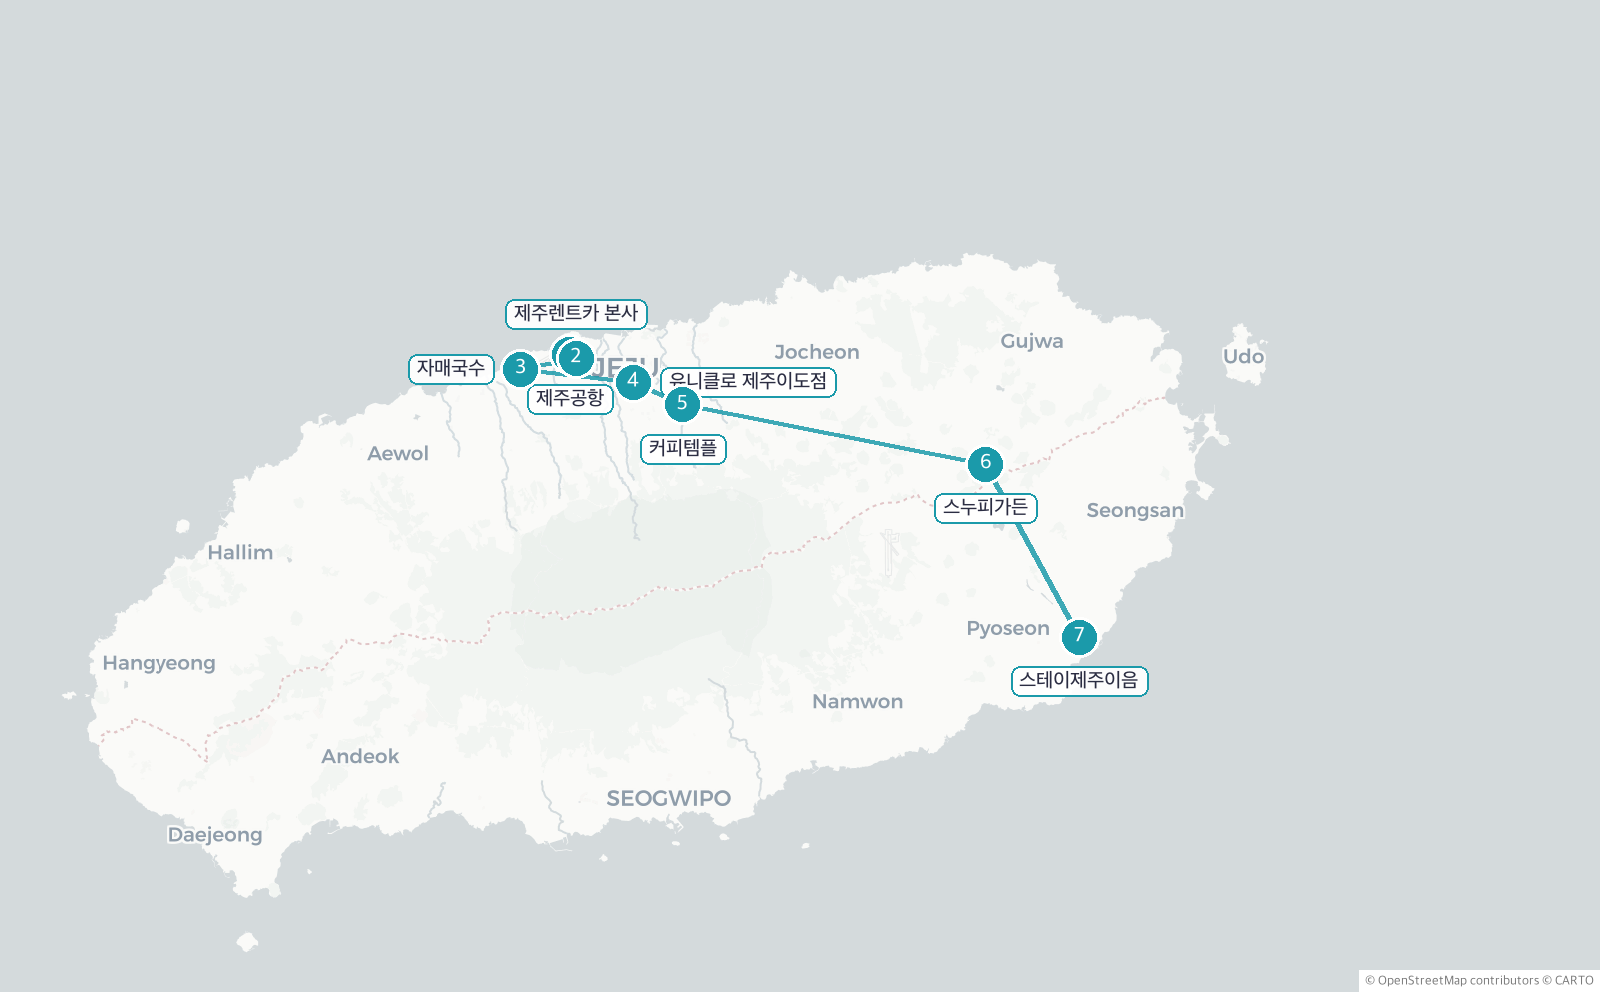
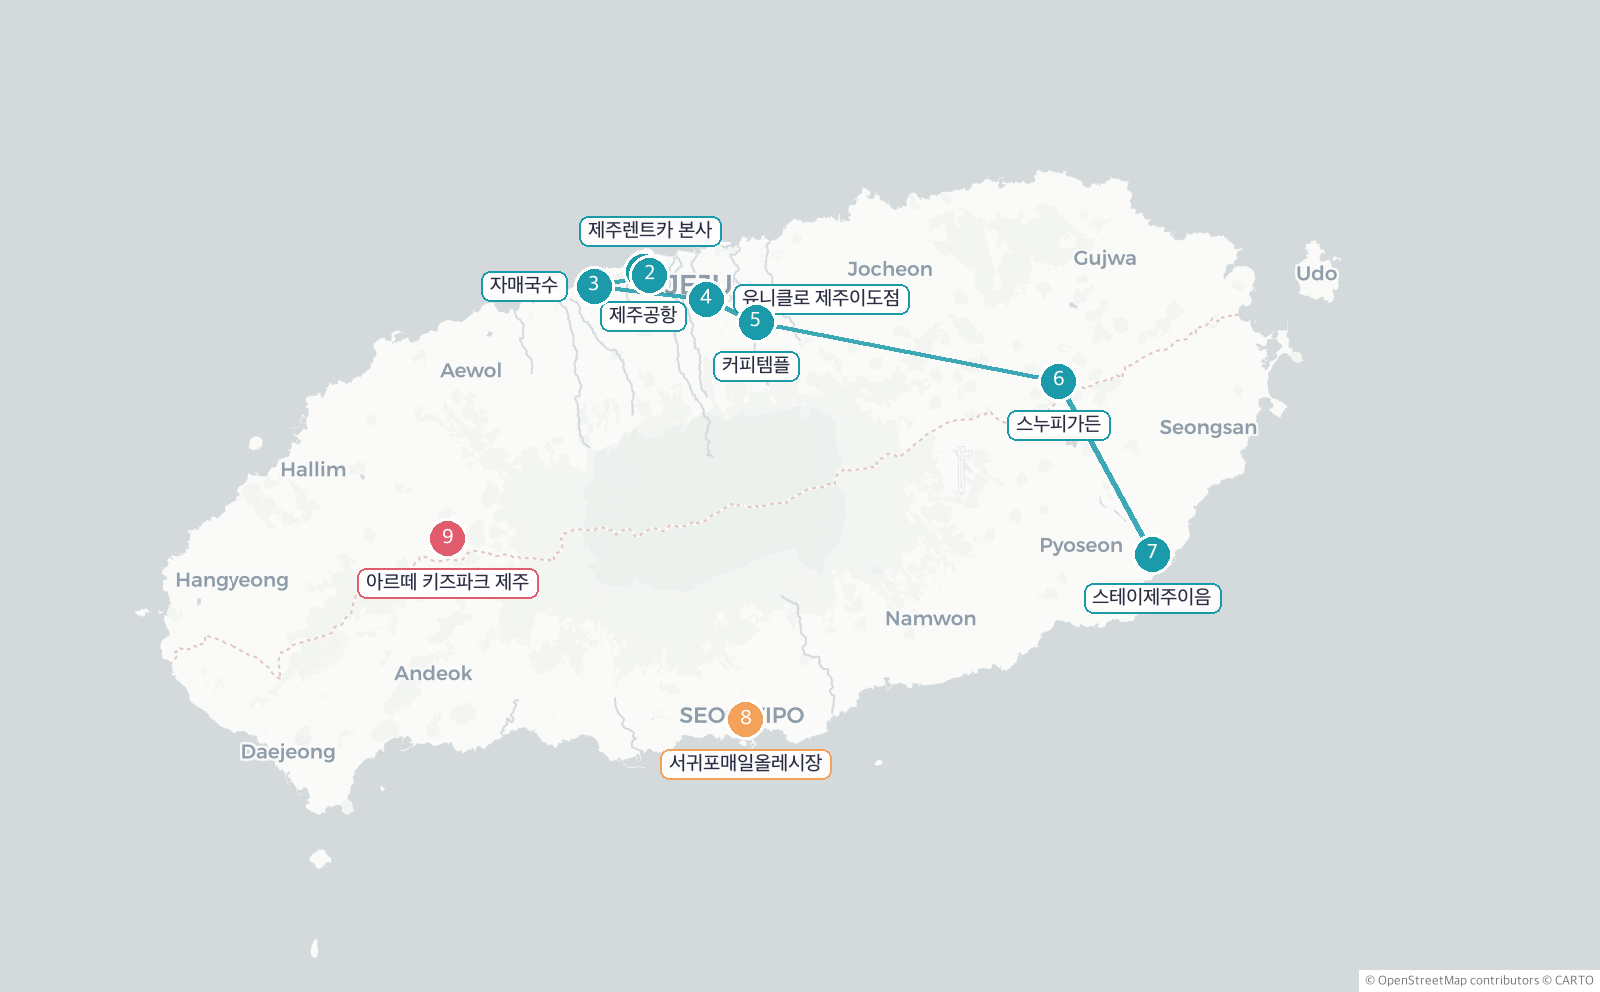
계획표 갱신 2026-07-30 09:08

diff --git a/489c57cd83/index.html b/489c57cd83/index.html
@@ -144,10 +144,10 @@
     <div id="zones" class="zones"></div>
     <div id="map" style="width:100%; height:340px; border-radius:14px; z-index:0"></div>
     <div id="chips" class="chips"></div>
-    <div class="drive">🚗 1→2 <b>7분</b> · 2→3 <b>12분</b> · 3→4 <b>26분</b> · 4→5 <b>12분</b> · 5→6 <b>31분</b> · 6→7 <b>27분</b> <span class='tot'>(총 1시간 55분)</span></div>
+    <div class="drive">🚗 1→2 <b>7분</b> · 2→3 <b>12분</b> · 3→4 <b>24분</b> · 4→5 <b>12분</b> · 5→6 <b>31분</b> · 6→7 <b>27분</b> · 7→8 <b>50분</b> · 7→9 <b>81분</b> <span class='tot'>(총 4시간 4분)</span></div>
     <script>
     (function(){
-      var pts = [{"n": 1, "name": "제주공항", "lat": 33.5068398, "lon": 126.492723, "day": 1, "time": "09:00", "addr": "제주특별자치도 제주시 공항로 2", "phone": "1661-2626", "url": "http://place.map.kakao.com/10808261"}, {"n": 2, "name": "제주렌트카 본사", "lat": 33.5049944, "lon": 126.4971834, "day": 1, "time": "10:00", "addr": "제주특별자치도 제주시 용문로 8", "phone": "1588-3301", "url": "http://place.map.kakao.com/26887342"}, {"n": 3, "name": "자매국수", "lat": 33.498579, "lon": 126.4591426, "day": 1, "time": "11:00", "addr": "제주특별자치도 제주시 항골남길 46", "phone": "064-746-2222", "url": "http://place.map.kakao.com/21455793"}, {"n": 4, "name": "유니클로 제주이도점", "lat": 33.4912167, "lon": 126.5362246, "day": 1, "time": "12:30", "addr": "제주특별자치도 제주시 구남로8길 1", "phone": "064-759-8756", "url": "http://place.map.kakao.com/1969411749"}, {"n": 5, "name": "커피템플", "lat": 33.4781648, "lon": 126.5702468, "day": 1, "time": "13:45", "addr": "제주특별자치도 제주시 영평길 269", "phone": "070-8806-8051", "url": "http://place.map.kakao.com/99092488"}, {"n": 6, "name": "스누피가든", "lat": 33.4441313, "lon": 126.7781669, "day": 1, "time": "15:20", "addr": "제주특별자치도 제주시 구좌읍 금백조로 930", "phone": "064-805-1118", "url": "http://place.map.kakao.com/852041742"}, {"n": 7, "name": "스테이제주이음", "lat": 33.3451558, "lon": 126.8423186, "day": 1, "time": "18:00", "addr": "제주특별자치도 서귀포시 표선면 하천로 37", "phone": "0507-1484-1511", "url": "http://place.map.kakao.com/833379597"}];
+      var pts = [{"n": 1, "name": "제주공항", "lat": 33.5068398, "lon": 126.492723, "day": 1, "time": "09:00", "addr": "제주특별자치도 제주시 공항로 2", "phone": "1661-2626", "url": "http://place.map.kakao.com/10808261"}, {"n": 2, "name": "제주렌트카 본사", "lat": 33.5049944, "lon": 126.4971834, "day": 1, "time": "10:00", "addr": "제주특별자치도 제주시 용문로 8", "phone": "1588-3301", "url": "http://place.map.kakao.com/26887342"}, {"n": 3, "name": "자매국수", "lat": 33.498579, "lon": 126.4591426, "day": 1, "time": "11:00", "addr": "제주특별자치도 제주시 항골남길 46", "phone": "064-746-2222", "url": "http://place.map.kakao.com/21455793"}, {"n": 4, "name": "유니클로 제주이도점", "lat": 33.4912167, "lon": 126.5362246, "day": 1, "time": "12:30", "addr": "제주특별자치도 제주시 구남로8길 1", "phone": "064-759-8756", "url": "http://place.map.kakao.com/1969411749"}, {"n": 5, "name": "커피템플", "lat": 33.4781648, "lon": 126.5702468, "day": 1, "time": "13:45", "addr": "제주특별자치도 제주시 영평길 269", "phone": "070-8806-8051", "url": "http://place.map.kakao.com/99092488"}, {"n": 6, "name": "스누피가든", "lat": 33.4441313, "lon": 126.7781669, "day": 1, "time": "15:20", "addr": "제주특별자치도 제주시 구좌읍 금백조로 930", "phone": "064-805-1118", "url": "http://place.map.kakao.com/852041742"}, {"n": 7, "name": "스테이제주이음", "lat": 33.3451558, "lon": 126.8423186, "day": 1, "time": "18:00", "addr": "제주특별자치도 서귀포시 표선면 하천로 37", "phone": "0507-1484-1511", "url": "http://place.map.kakao.com/833379597"}, {"n": 8, "name": "서귀포매일올레시장", "lat": 33.250149, "lon": 126.5632305, "day": 2, "time": "10:30", "addr": "제주특별자치도 서귀포시 중앙로62번길 18", "phone": "064-762-1949", "url": "http://place.map.kakao.com/7938166"}, {"n": 9, "name": "아르떼 키즈파크 제주", "lat": 33.3539454, "lon": 126.3585969, "day": 3, "time": "10:50", "addr": "제주특별자치도 제주시 애월읍 월각로 929", "phone": "064-799-7007", "url": "http://place.map.kakao.com/1657397874"}];
       var colors = {"1": "#1b9aaa", "2": "#f4a259", "3": "#e15c6f"};
       // 선은 캔버스로 그린다 (SVG로 그리면 일부 환경에서 색 덩어리로 깨진다)
       var map = L.map('map', {scrollWheelZoom:false, preferCanvas:true});
@@ -293,8 +293,10 @@
     <div class="day-head"><span class="badge">DAY 2</span><span class="date">8월 10일 (월)</span></div>
 
     <div class="todo"><span class="icon">🍽</span> 아침 — 추가 예정</div>
-    <div class="todo"><span class="icon">📷</span> 오전 볼거리 — 추가 예정</div>
-    <div class="todo"><span class="icon">🍽</span> 점심 — 추가 예정</div>
+    <div class="item">
+      <div class="time">10:30</div><div class="icon">🛒</div>
+      <div class="body"><div class="t">서귀포매일올레시장</div><div class="d">서귀포시 중앙로62번길 18 · <a href="tel:064-762-1949">064-762-1949</a> · 숙소에서 50분 · 점심도 시장에서</div></div>
+    </div>
     <div class="todo"><span class="icon">📷</span> 오후 볼거리 — 추가 예정</div>
     <div class="todo"><span class="icon">🍽</span> 저녁 — 추가 예정</div>
 
@@ -311,12 +313,19 @@
     <div class="todo"><span class="icon">🍽</span> 아침 — 추가 예정</div>
 
     <div class="item">
-      <div class="time">11:00</div><div class="icon">🏠</div>
-      <div class="body"><div class="t">숙소 퇴실</div><div class="d">스테이제주이음 · 체크아웃 11:00</div></div>
+      <div class="time">09:30</div><div class="icon">🏠</div>
+      <div class="body"><div class="t">숙소 퇴실</div><div class="d">스테이제주이음 · 키즈파크 시간 확보를 위해 일찍 나섬 (체크아웃 마감 11:00)</div></div>
     </div>
 
-    <div class="todo"><span class="icon">🍽</span> 점심 — 추가 예정</div>
-    <div class="todo"><span class="icon">📷</span> 볼거리 — 추가 예정</div>
+    <div class="item">
+      <div class="time">10:50</div><div class="icon">🎨</div>
+      <div class="body"><div class="t">아르떼 키즈파크 제주</div><div class="d">제주시 애월읍 월각로 929 · <a href="tel:064-799-7007">064-799-7007</a> · 숙소에서 81분 · 12:50까지 두 시간</div></div>
+    </div>
+
+    <div class="item">
+      <div class="time">13:50</div><div class="icon">🍽</div>
+      <div class="body"><div class="t">점심 · 공항에서</div><div class="d">키즈파크에서 렌트카 반납까지 32분 · 반납 후 공항에서 간단히</div></div>
+    </div>
 
     <div class="item">
       <div class="time">14:00</div><div class="icon">🚗</div>

diff --git a/489c57cd83/print.html b/489c57cd83/print.html
@@ -106,7 +106,7 @@
       <h2>🗺 여행 동선</h2>
       <!-- MAP:START (build.py 자동 생성) -->
       <img src="map.png" alt="제주 여행 동선 지도">
-      <div class="drive">🚗 제주공항→제주렌트카 본사 7분 · 제주렌트카 본사→자매국수 12분 · 자매국수→유니클로 제주이도점 26분 · 유니클로 제주이도점→커피템플 12분 · 커피템플→스누피가든 31분 · 스누피가든→스테이제주이음 27분</div>
+      <div class="drive">🚗 제주공항→제주렌트카 본사 7분 · 제주렌트카 본사→자매국수 12분 · 자매국수→유니클로 제주이도점 24분 · 유니클로 제주이도점→커피템플 12분 · 커피템플→스누피가든 31분 · 스누피가든→스테이제주이음 27분 · 스테이제주이음→서귀포매일올레시장 50분 · 스테이제주이음→아르떼 키즈파크 제주 81분</div>
     <!-- MAP:END -->
       <div class="legend">
         <span><i class="dot" style="background:var(--day1)"></i>Day 1 이동</span>
@@ -147,8 +147,7 @@
     <div class="day" style="--dc:var(--day2)">
       <div class="dh"><span class="badge">DAY 2</span><span class="date">8/10 (월)</span></div>
       <div class="todo">🍽 아침 —</div>
-      <div class="todo">📷 오전 볼거리 —</div>
-      <div class="todo">🍽 점심 —</div>
+      <div class="it"><div class="tm">10:30</div><div class="ic">🛒</div><div class="bd"><div class="t">서귀포매일올레시장</div><div class="d">중앙로62번길 18 · 숙소에서 50분 · 점심 겸</div></div></div>
       <div class="todo">📷 오후 볼거리 —</div>
       <div class="todo">🍽 저녁 —</div>
       <div class="it"><div class="tm">숙박</div><div class="ic">🏠</div><div class="bd"><div class="t">스테이제주이음</div><div class="d">2박째</div></div></div>
@@ -157,9 +156,9 @@
     <div class="day" style="--dc:var(--day3)">
       <div class="dh"><span class="badge">DAY 3</span><span class="date">8/11 (화)</span></div>
       <div class="todo">🍽 아침 —</div>
-      <div class="it"><div class="tm">11:00</div><div class="ic">🏠</div><div class="bd"><div class="t">숙소 퇴실</div><div class="d">체크아웃</div></div></div>
-      <div class="todo">🍽 점심 —</div>
-      <div class="todo">📷 볼거리 —</div>
+      <div class="it"><div class="tm">09:30</div><div class="ic">🏠</div><div class="bd"><div class="t">숙소 퇴실</div><div class="d">일찍 나섬 (마감 11:00)</div></div></div>
+      <div class="it"><div class="tm">10:50</div><div class="ic">🎨</div><div class="bd"><div class="t">아르떼 키즈파크 제주</div><div class="d">애월읍 월각로 929 · 숙소에서 81분 · 12:50까지</div></div></div>
+      <div class="it"><div class="tm">13:50</div><div class="ic">🍽</div><div class="bd"><div class="t">점심 · 공항에서</div><div class="d">키즈파크에서 32분</div></div></div>
       <div class="it"><div class="tm">14:00</div><div class="ic">🚗</div><div class="bd"><div class="t">렌트카 반납</div><div class="d">제주렌트카 본사 · 용문로 8</div></div></div>
       <div class="it"><div class="tm">15:00</div><div class="ic">✈</div><div class="bd"><div class="t">제주 → 부산</div><div class="d">에어부산 BX8110 · 16:10 도착</div></div></div>
       <div class="it"><div class="tm">17:40</div><div class="ic">🏡</div><div class="bd"><div class="t">집 도착</div><div class="d">공항에서 약 1시간 30분</div></div></div>
